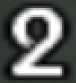
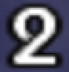
Update 2nd place template to a properly scaled one

diff --git a/client/src/WinDetector.cpp b/client/src/WinDetector.cpp
@@ -46,7 +46,7 @@ vector<CharacterDetails> ExtractWinners(cv::Mat& screen) {
   for (auto &place_template : glob("img/templates/*_place.png")) {
     Mat templ;
     cvtColor(imread(place_template), templ, COLOR_BGR2GRAY);
-    auto pos = ContainsTemplatePos(gray, templ, 0.3);
+    auto pos = ContainsTemplatePos(gray, templ);
 
     if (pos.area() == 0) {
       cerr << "Template " << place_template << " did not match anything in the win screen\n";
